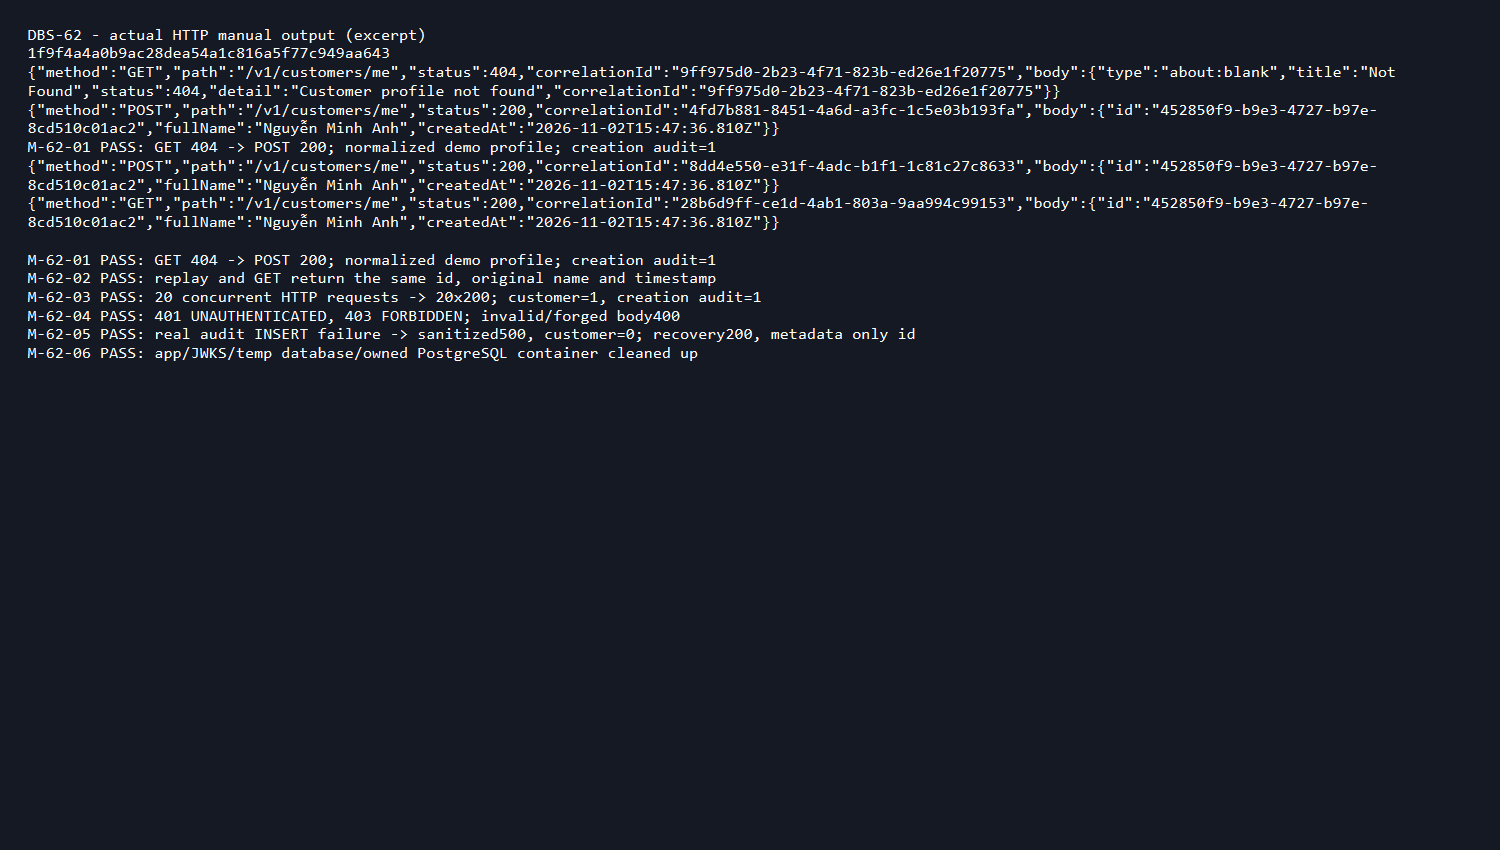
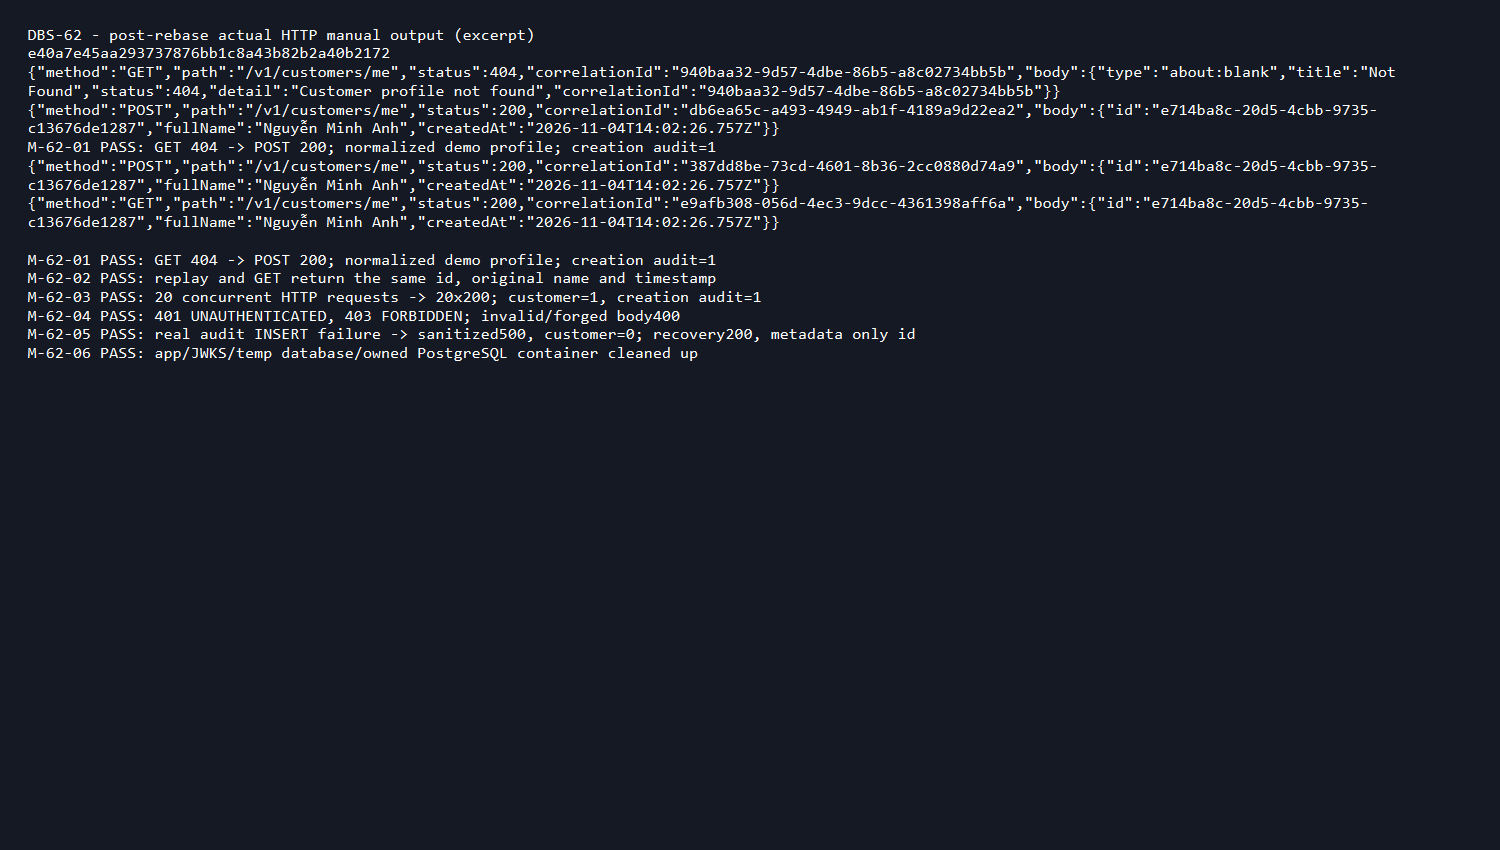
docs(accounts): refresh DBS-62 evidence after main rebase

diff --git a/docs/features/DBS-62-customer-onboarding.md b/docs/features/DBS-62-customer-onboarding.md
@@ -1,10 +1,10 @@
 # DBS-62 · Customer onboarding
 
-Status: Implemented locally; main-based PR waiting for the real audit dependency (BL-144). Owner: Dev. Updated 2026-11-02.
+Status: Implemented; rebased onto main after audit PR #54. Draft PR/CI handover in progress (BL-144). Owner: Dev. Updated 2026-11-04.
 
 ## 1. Scope and dependencies
 
-Board Dev, Highest, In Progress. DBS-20/51/52 Done. DBS-53 board says In Progress but its implementation/token tools are already on main991c13f via merged PR48; use actual code, no auth stub. Main has AccountsService but no onboarding controller. Real AuditService is required by FR-AUD-01/BR-09 yet remains only in origin/feat/DBS-56-audit-service-record (no associated PR found). Temporary integration base08e605e merges that real code into current main; conflict resolution retains Outbox/Accounts/Audit, and renames collided audit handoff BL-031 to BL-143 (cost BL-031 retained). Separate DBS-62 commits will be rebased onto main after audit dependency merges, following prior temporary-dependency workflow. No merge into main, board edits or duplicate service.
+Board Dev, Highest, In Progress. DBS-20/51/52 Done. DBS-53 board says In Progress but its implementation/token tools are on main via merged PR48. AuditService is now on main via [PR54](https://github.com/Lawliet119/digital-banking-simulator/pull/54), commit7f3b700, including metadata serialization and nested-transaction protections. On 2026-11-04 rebased only the three DBS-62 commits onto main a9e607b, removing temporary integration08e605e and all dependency commits from the PR diff. Kept main's backlog rows (including audit BL-137); the temporary BL-143 duplicate was discarded. No schema or audit implementation changes in DBS-62.
 
 Deliver POST/GET /v1/customers/me per docs03 UC-1. Actual requirement is FR-ID-02 (board references FR-ACC-01, which docs02 assigns to account opening/UC-2). User authorizes prior delivery workflow without gate pauses: design review/test/manual/commit/push; main-based PR when dependencies available.
 
@@ -77,7 +77,7 @@ Temporary real audit integration08e605e, then tests first (missing route404 red)
 
 ## 8. Results
 
-Code commits: `e7b96a2` implementation and `1f9f4a4` real-provider fixture adjustment. Test first: all 7 new tests failed because `/v1/customers/me` was absent (HTTP404); after implementation all7 passed. No skipped task tests.
+Rebased code commits: `586ef11` implementation and `08d50fa` real-provider fixture adjustment (originally e7b96a2 and1f9f4a4). Test first: all 7 new tests failed because `/v1/customers/me` was absent (HTTP404); after implementation all7 passed. No skipped task tests. Results below are the original 2026-11-02 verification; the post-rebase results are recorded in verification.txt and the final handover below.
 
 | Verification | Actual result |
 |---|---|
@@ -99,13 +99,13 @@ Code commits: `e7b96a2` implementation and `1f9f4a4` real-provider fixture adjus
 
 Manual command from `backend`: `node scripts/manual-dbs62.cjs`. [Raw output](screenshots/DBS-62/manual-test.txt) first line contains final code SHA. Six steps M-62-01..06 executed successfully: missing GET404/create200, replay/GET unchanged,20 parallel200 with one customer/audit,401/403/400 rejection, actual audit failure500/rollback/recovery200, cleanup. Public JWKS file only; disposable PostgreSQL17 and owned temp database, no shared DB revert. Driver logs HTTP status, sanitized response and server correlationId, never token or connection URL.
 
-[Verification summary](screenshots/DBS-62/verification.txt) and [prepared PR description](screenshots/DBS-62/pr-description.md) retain the DoD mapping for the main-based PR. GitHub branch `feat/DBS-62-customer-onboarding`; PR intentionally pending BL-144.
+[Verification summary](screenshots/DBS-62/verification.txt) and [PR description](screenshots/DBS-62/pr-description.md) retain the DoD mapping for the main-based PR. GitHub branch `feat/DBS-62-customer-onboarding`; current PR/check links are recorded in the final handover.
 
 ![Actual HTTP output excerpt](screenshots/DBS-62/01-http-results.png)
 
-Deviation: AccountsModule now has a real audit/transaction dependency; updated existing TC-55-15 fixture to provide real TransactionService/config, identified by the full DB run. Temporary integration is reversible: after audit merge, `git rebase --onto origin/main 08e605e feat/DBS-62-customer-onboarding` replays only DBS-62 commits; resolve docs, rerun relevant checks and manual output on final rebased SHA before PR. Do not merge/present dependency commits as DBS-62 work. No main PR created while dependency is absent.
+Deviation: AccountsModule now has a real audit/transaction dependency; updated existing TC-55-15 fixture to provide real TransactionService/config, identified by the full DB run. Completed `git rebase --onto origin/main 08e605e feat/DBS-62-customer-onboarding` on2026-11-04. Conflict only in BACKLOG; kept main's rows and DBS-62 handoff. No dependency code is in the diff. The existing design and real audit interface remain compatible; runtime tests include actual PR54 implementation.
 
-BL-144 tracks main-based PR, CI, Dev review and merge. BL-132 global roles-denial audit, BL-130 identity provision audit and BL-019 audit API/roles remain owned by their existing tasks. No fabricated service or silently waived onboarding mutation audit. Temporary audit handoff collision renamed BL-143; no backlog items closed by DBS-62.
+BL-144 now tracks Dev review and merge after the main-based Draft PR and its CI. BL-132 global roles-denial audit, BL-130 identity provision audit and BL-019 audit API/roles remain owned by their existing tasks. No fabricated service or silently waived onboarding mutation audit. No backlog items closed by DBS-62.
 
 Handover checklist: implementation/test/manual/evidence/docs complete locally; raw output inspected for tokens/secrets; independent review findings addressed; no dependency/env/schema/ErrorCode change; GitHub CI/Dev review/merge pending; board stays In Progress until a reviewable main-based PR exists. No human gate approval or Dev review is claimed.
 

diff --git a/docs/features/screenshots/DBS-62/pr-description.md b/docs/features/screenshots/DBS-62/pr-description.md
@@ -5,7 +5,9 @@ Feature doc: docs/features/DBS-62-customer-onboarding.md
 
 Thêm POST/GET `/v1/customers/me` cho customer. POST tạo hoặc trả hồ sơ cũ (200), không đổi tên khi gọi lại; UNIQUE user_id bảo vệ request đồng thời. Ghi audit cùng transaction, lỗi audit rollback và trả lỗi đã che chi tiết.
 
-Chỉ dùng mô tả này để mở PR sau khi DBS-56 có trên main và rebase các commit DBS-62; không đưa merge dependency tạm vào PR.
+Nhánh đã rebase lên main a9e607b sau khi AuditService được merge qua PR #54. Diff chỉ gồm thay đổi DBS-62; kiểm tra tích hợp dùng AuditService thật sau review.
+
+Kiểm tra sau rebase: lint/typecheck/build xanh; 65/65 test PostgreSQL của onboarding/AccountsService/AuditService và 6/6 bước thủ công xanh. Lượt unit đầy đủ: 825/826 xanh, test cooldown JWKS Identity bị lỗi timing trên máy local; không sửa Identity trong DBS-62. Xem kết quả retry và GitHub checks khi review.
 
 ## Loại thay đổi
 
@@ -27,13 +29,13 @@ UC-1, FR-ID-02, FR-AUD-01/02. Board ghi FR-ACC-01 nhưng docs/02 dùng mã đó 
 | Sở hữu và phân quyền | TC-62-04/05: missing/expired JWT, staff403, owner GET, giả userId/role400 | Khớp |
 | Validation/PII | TC-62-06: tên Việt, độ dài/control/SQL-like input; metadata chỉ id | Khớp |
 | Audit fail-closed | TC-62-07: trigger thật làm audit INSERT lỗi; POST rollback, GET/replay không trả hồ sơ; retry sau phục hồi | Khớp |
-| PR merge main, CI xanh, Dev review | GitHub checks/review sau khi dependency merge và mở PR | Chưa đạt; BL-144 |
+| PR merge main, CI xanh, Dev review | GitHub checks trên Draft PR; Dev review và merge theo quy trình nhóm | Chờ kết quả CI/review/merge; BL-144 |
 
 ## Kiểm tra
 
 - [x] Chạy thủ công HTTP với PostgreSQL17 Docker dùng riêng; 6/6 bước đạt, transcript có code SHA
 - [x] Test thật; không sửa tiền trong task này
-- [ ] CI xanh — cần run thật trên PR
+- [ ] CI xanh — cập nhật sau khi GitHub checks hoàn tất
 - [x] Không có secret trong code/log/commit của task
 - [x] Feature doc đủ mục 1–9, domain review và bằng chứng thủ công; user yêu cầu không dừng G1–G4, không nhận đã duyệt gate
 - [x] Cập nhật docs/03, Accounts README, feature index, backlog
@@ -42,4 +44,4 @@ UC-1, FR-ID-02, FR-AUD-01/02. Board ghi FR-ACC-01 nhưng docs/02 dùng mã đó 
 
 Xem INSERT ON CONFLICT rồi SELECT riêng ở READ COMMITTED, audit trong cùng manager/transaction, và chỉ lấy caller từ CurrentUser. Test ở `test/db/customer-onboarding.db-spec.ts`; chạy `npm run test:db -- --runInBand --runTestsByPath test/db/customer-onboarding.db-spec.ts`. Lặp thủ công bằng `node scripts/manual-dbs62.cjs`.
 
-BL-130/132 là gap audit của identity/global role denial hiện có, thuộc task khác. DBS-62 không nhận đã sửa hai gap đó. Cần merge AuditService thật trước, rebase khỏi temporary base 08e605e, xác minh lại code SHA/bằng chứng và CI.
+BL-130/132 là gap audit của identity/global role denial hiện có, thuộc task khác. DBS-62 không nhận đã sửa hai gap đó. Bằng chứng thủ công đã chạy lại trên SHA sau rebase, trong `docs/features/screenshots/DBS-62/manual-test.txt`.

diff --git a/docs/BACKLOG.md b/docs/BACKLOG.md
@@ -100,4 +100,4 @@ Quy tắc:
 | BL-139 | [Draft PR #42 DBS-59](https://github.com/Lawliet119/digital-banking-simulator/pull/42) có sáu check CI xanh trên head trước cập nhật evidence; Dev review và merge còn chờ | [DBS-59](features/DBS-59-risk-module-skeleton.md) §8 | Dev reviewer và người quản lý repo | CI xanh trên head cuối, Dev khác review, merge main |
 | BL-141 | [PR #44 DBS-58](https://github.com/Lawliet119/digital-banking-simulator/pull/44) đã có CI 6/6 job xanh trên code trước hai assertions FK cuối; cần final checks, Dev khác review và merge main | [DBS-58](features/DBS-58-fraud-migration.md) §8 | Dev reviewer / người quản lý repo | Final checks CI xanh, Dev khác review, merge main và link bằng chứng |
 | BL-142 | [PR #43 DBS-71](https://github.com/Lawliet119/digital-banking-simulator/pull/43) đã có CI 6/6 job xanh; chưa có Dev khác review hoặc merge main | [DBS-71](features/DBS-71-normal-fraud-dataset.md) §8 | Dev reviewer / người quản lý repo | Dev khác review, merge main và cập nhật bằng chứng |
-| BL-144 | DBS-62 uses real AuditService on a temporary integration base; dependency DBS-56 is not on main. Main-based PR, CI, Dev review and merge remain pending | [DBS-62](features/DBS-62-customer-onboarding.md) §8 | Dev owning DBS-62 with audit owner | Merge audit dependency, rebase only DBS-62 commits after temporary base 08e605e onto main, verify CI, complete PR test mapping, Dev review and merge |
+| BL-144 | DBS-62 onboarding: main-based Draft PR and checks tracked in feature doc; Dev review and merge pending | [DBS-62](features/DBS-62-customer-onboarding.md) section8 | Dev reviewer / repository owner | Final CI green, another Dev reviews, merge main and link evidence |

diff --git a/docs/features/README.md b/docs/features/README.md
@@ -29,7 +29,7 @@ Lỗi không có mã trên board dùng tên `BUG-YYYYMMDD-<slug>.md`.
 
 | Task | Tóm tắt | Vai | Trạng thái |
 |---|---|---|---|
-| [DBS-62](DBS-62-customer-onboarding.md) | UC-1 customer onboarding: create-or-return, own GET, transaction audit and concurrent HTTP/PostgreSQL tests | Dev | Implemented locally; temporary real DBS-56 dependency, main PR/CI/review/merge pending BL-144 |
+| [DBS-62](DBS-62-customer-onboarding.md) | UC-1 customer onboarding: create-or-return, own GET, transaction audit and concurrent HTTP/PostgreSQL tests | Dev | Implemented; rebased onto main after audit PR54; Draft PR/CI handover, Dev review/merge pending BL-144 |
 | [DBS-20](DBS-20-migration-users-customers-accounts.md) | Migration 1: users, customers, accounts và tài khoản SYSTEM funding | #1 Ledger | Implemented |
 | [DBS-21](DBS-21-migration-transfers-ledger-idempotency.md) | Migration 2: transfers, ledger_entries, idempotency_keys, view v_transfer_facts | Dev | Implemented |
 | [DBS-22](DBS-22-common-money-type-dto-validator.md) | @common/money: `Money`, `Balance`, `@IsMoneyAmount`, JSON an toàn cho bigint | Dev | Implemented |
